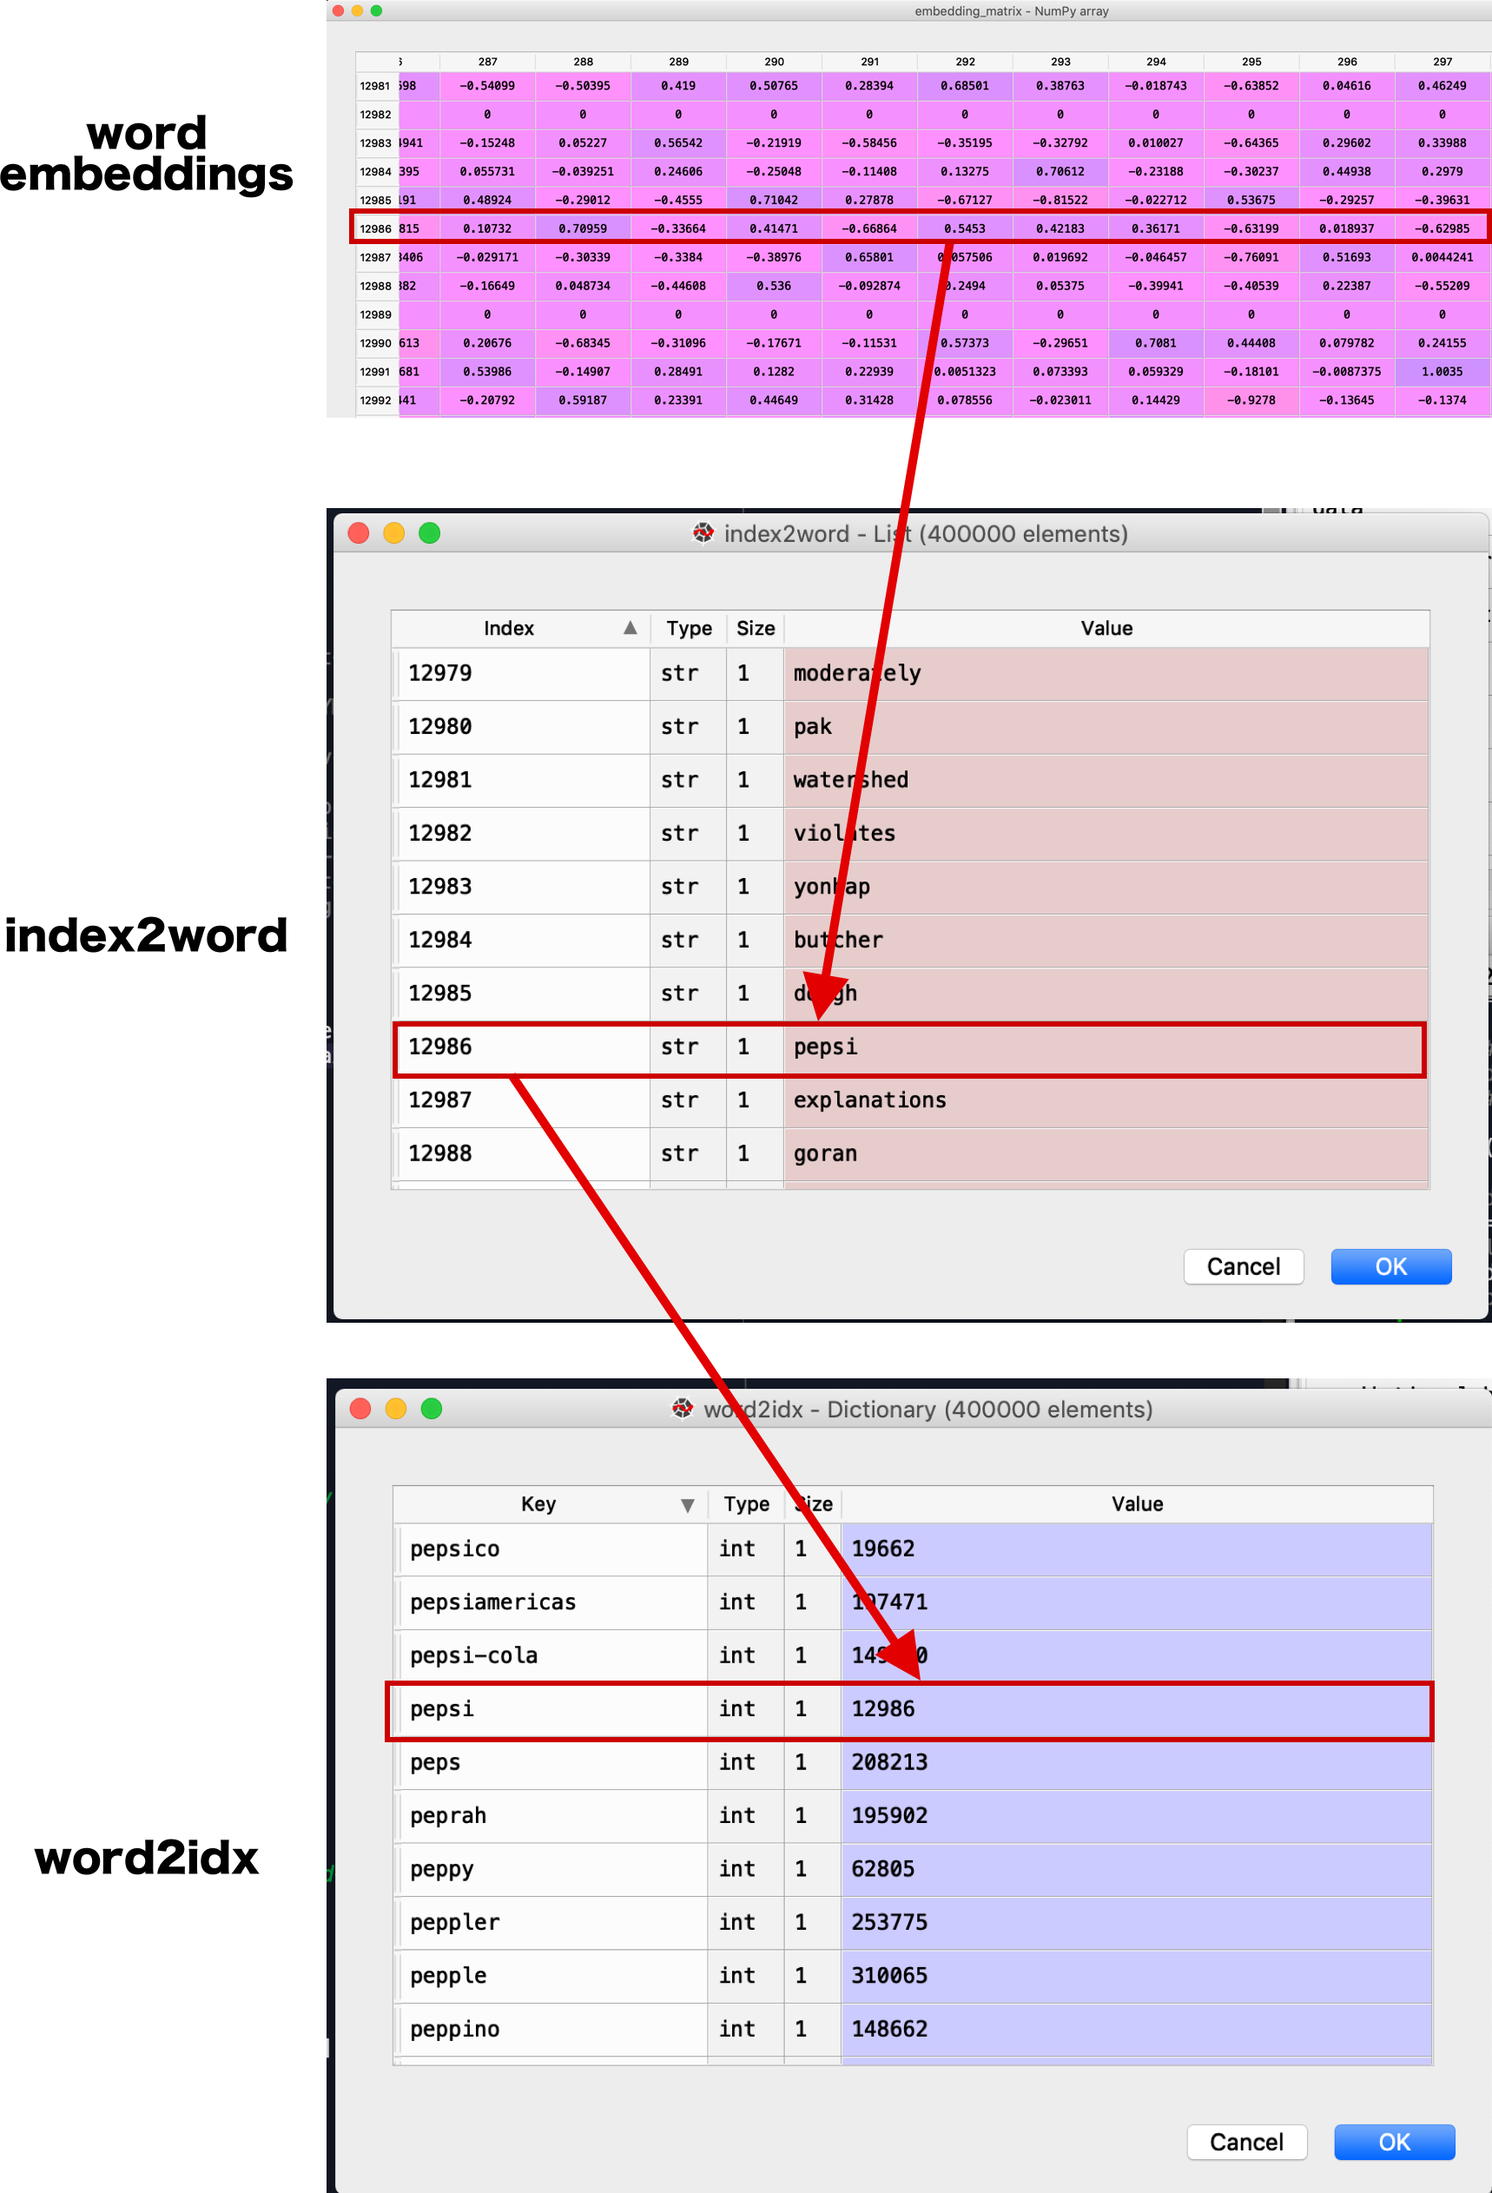
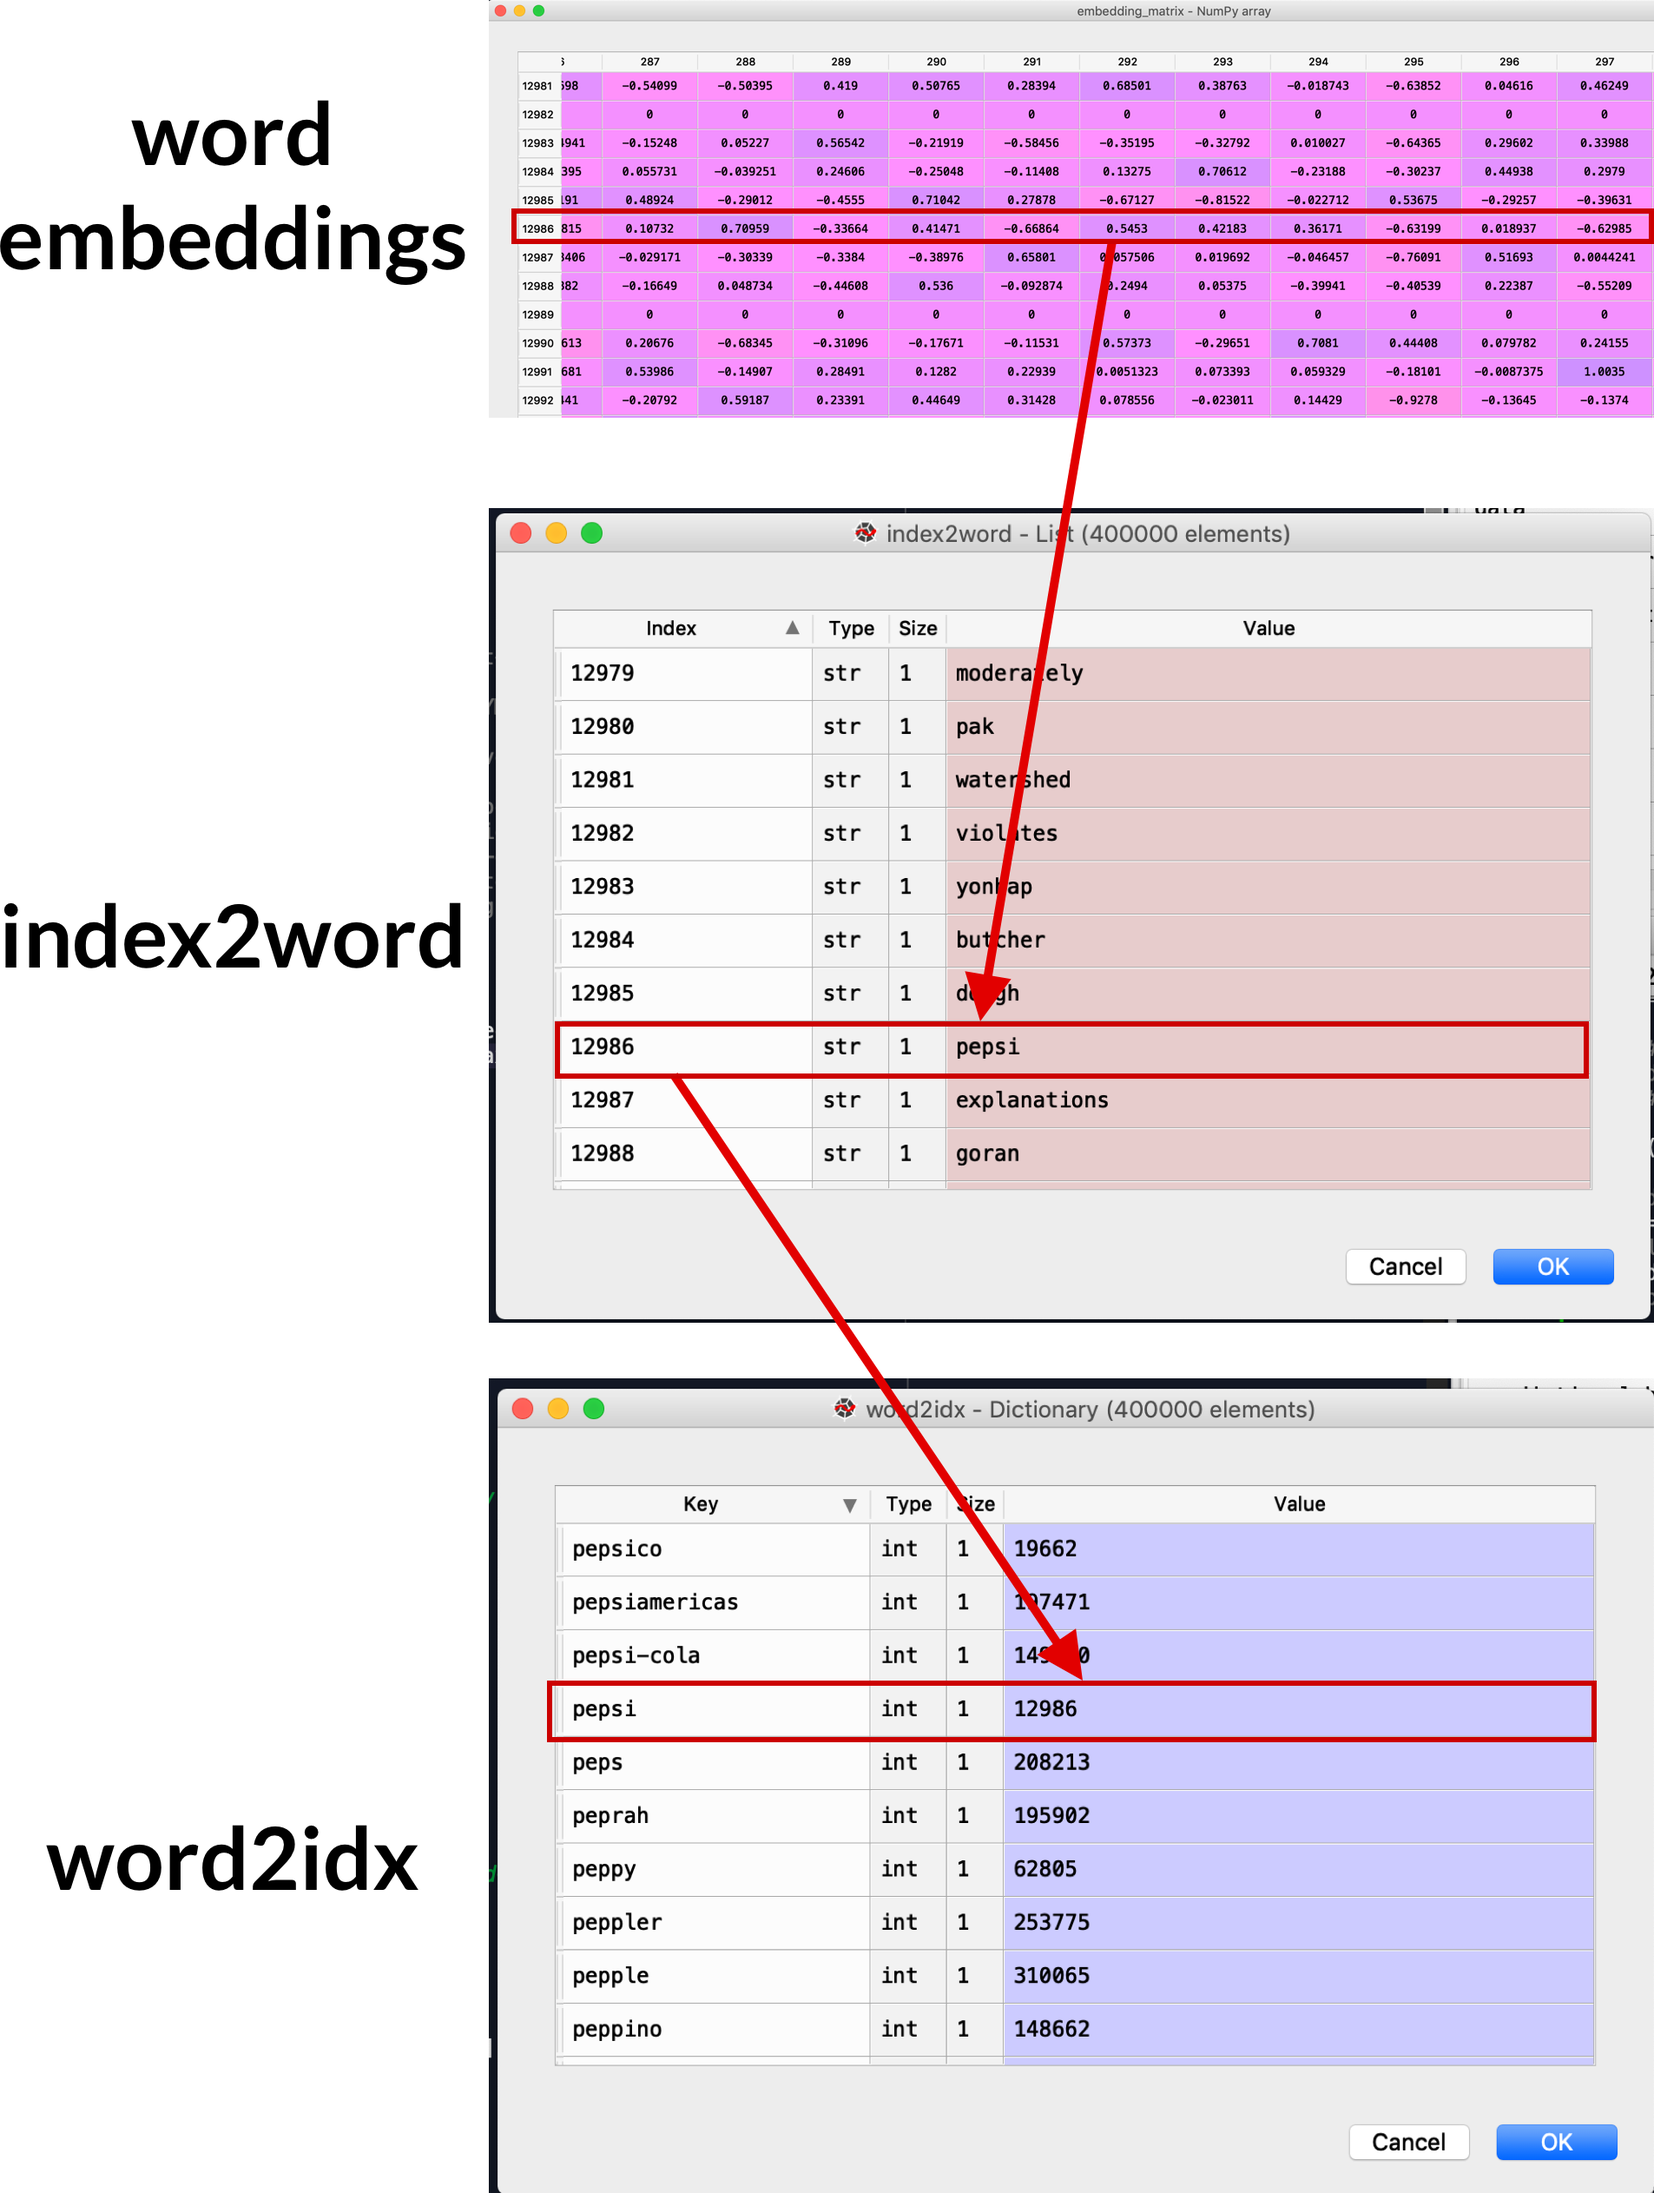
Blogging 2019-01-19

diff --git a/_posts/1900-01-10-deep-learning-natural-language-processing-toxic-comment-detector.md b/_posts/1900-01-10-deep-learning-natural-language-processing-toxic-comment-detector.md
@@ -273,6 +273,10 @@ Here's how the embedding matrix should look after the word "of" is added. (The f
 | of | -0.25756 | -0.057132 | -0.6719    | -0.38082 | ... |
 | ... | ... | ... | ... | ... | ... |
 
+Also, for a deep visualization, check the image above.  The picture labeled "word embeddings" is _actually_ the output of our `embedding_matrix`.  The big difference? The word vectors in the `gensim` embedding_model which are not found anywhere in our corpus (all the text contained in the toxic_comments column) have been replaced with all zeroes. 
+
+![embedding-matrix](https://ladvien.com/images/embeddings_2.png)
+
 #### Code: Creating Embedding Layer
 ```python
 embedding_layer = Embedding(len(word2idx),
